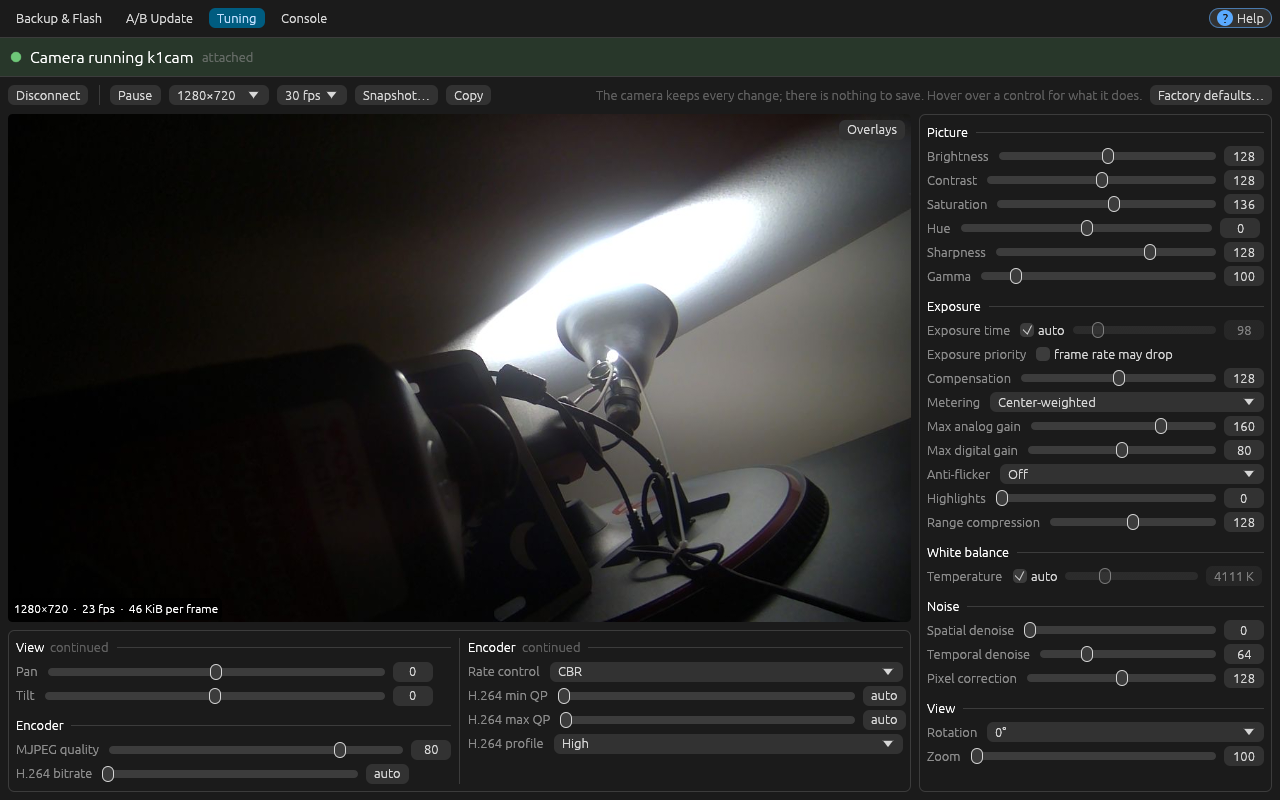
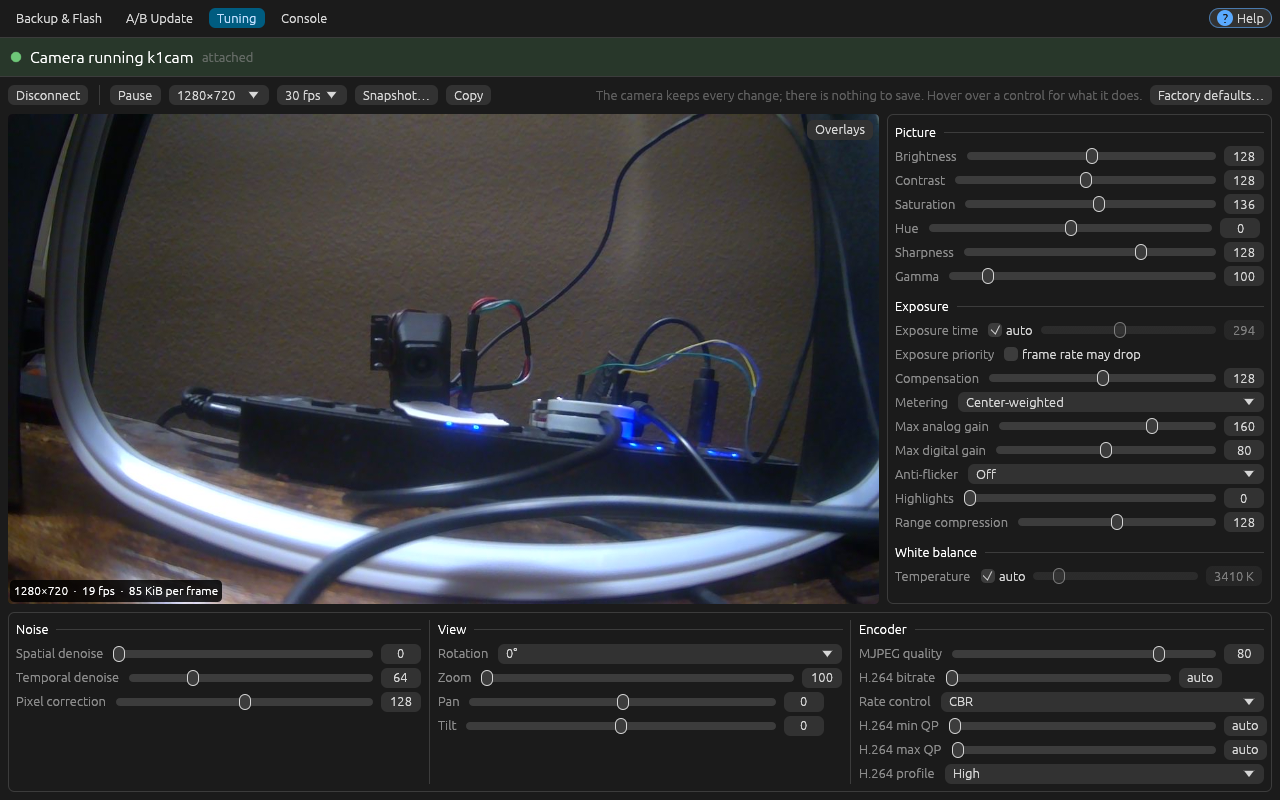
tuning: wrap the controls around the preview in reading order

diff --git a/src/tuning.rs b/src/tuning.rs
@@ -547,8 +547,9 @@ fn flow(lines: &[Line], cols: &[egui::Rect], line: f32, run_on: bool) -> Option<
 
 /// The preview at the top left, as large as it can be with every control in
 /// view, and the controls flowing past it the way a page wraps text around a
-/// picture: down the columns of a box beside it, then of a box below it. Only
-/// when they don't fit beside a preview `SMALLEST` wide does the tab scroll.
+/// picture: down the columns of a box beside it, as tall as the picture, then
+/// of a box across the room below it, so that they read in order. Only when
+/// they don't fit beside a preview `SMALLEST` wide does the tab scroll.
 fn arrange(room: egui::Vec2, aspect: f32, lines: &[Line], line: f32) -> Arrangement {
     let (w, h, aspect) = (room.x.max(1.0), room.y.max(1.0), aspect.max(0.1));
     let largest = w.min(h * aspect).floor().max(1.0);
@@ -566,22 +567,22 @@ fn arrange(room: egui::Vec2, aspect: f32, lines: &[Line], line: f32) -> Arrangem
 /// The arrangement with a preview `pw` by `ph`, if the lines fit (or anyway,
 /// with `run_on`).
 fn place(w: f32, h: f32, pw: f32, ph: f32, lines: &[Line], line: f32, run_on: bool) -> Option<Arrangement> {
-    let side = fit(w - pw - GAP);
-    let beside = egui::Rect::from_min_max(egui::pos2(pw + GAP, 0.0), egui::pos2(w, h));
-    let below = egui::Rect::from_min_max(egui::pos2(0.0, ph + GAP), egui::pos2(if side == 0 { w } else { pw }, h));
-    let under = if side == 0 { fit(w).max(1) } else { fit(pw) };
-    let mut cols = columns(beside, side);
+    // Beside the picture only as far down as it goes, so that nothing beside it
+    // comes after what starts below it.
+    let beside = egui::Rect::from_min_max(egui::pos2(pw + GAP, 0.0), egui::pos2(w, ph.min(h)));
+    let below = egui::Rect::from_min_max(egui::pos2(0.0, ph + GAP), egui::pos2(w, h));
+    let mut cols = columns(beside, fit(beside.width()));
     let split = cols.len();
-    cols.extend(columns(below, under));
+    cols.extend(columns(below, fit(w).max(1)));
     let placed = flow(lines, &cols, line, run_on)?;
-    // The boxes in use, as tall as the room or the lines run on, and as wide as
-    // their columns in use.
+    // The boxes in use, as wide as their columns in use; the one below as tall
+    // as the room or the lines run on.
     let end = placed.iter().map(|(_, p)| p.rect.bottom() + PAD).fold(h, f32::max);
     let used = |c: usize| placed.iter().any(|(at, _)| *at == c);
     let (mut boxes, mut rules) = (Vec::new(), Vec::new());
-    for (b, range) in [(beside, 0..split), (below, split..cols.len())] {
+    for (b, range, bottom) in [(beside, 0..split, beside.bottom()), (below, split..cols.len(), end)] {
         let Some(last) = range.clone().rev().find(|&c| used(c)) else { continue };
-        let b = egui::Rect::from_min_max(b.min, egui::pos2(cols[last].right() + PAD, end));
+        let b = egui::Rect::from_min_max(b.min, egui::pos2(cols[last].right() + PAD, bottom));
         for c in range.skip(1).filter(|c| used(*c)) {
             let x = cols[c].left() - RULE / 2.0;
             rules.push([egui::pos2(x, b.top() + PAD), egui::pos2(x, b.bottom() - PAD)]);
@@ -1426,6 +1427,11 @@ mod tests {
         assert!(p.min == egui::Pos2::ZERO && (p.width() / p.height() - aspect).abs() < 1e-3, "{p:?}");
         let order: Vec<usize> = a.lines.iter().filter_map(|l| l.line).collect();
         assert_eq!(order, (0..lines.len()).collect::<Vec<_>>());
+        // They read in order: a line left of the one before it is below it.
+        for w in a.lines.windows(2) {
+            let (r, n) = (w[0].rect, w[1].rect);
+            assert!(n.left() >= r.left() || n.top() >= r.bottom(), "{n:?} after {r:?} in {room:?}");
+        }
         for (k, l) in a.lines.iter().enumerate() {
             let r = l.rect;
             assert!(r.left() >= 0.0 && r.right() <= room.x + 1e-3, "{r:?} outside {room:?}");
@@ -1483,8 +1489,8 @@ mod tests {
 
     #[test]
     fn the_controls_wrap_around_the_preview_and_fit() {
-        // The tab in the default 1100x720 window, and in a 1145x842 one.
-        for room in [egui::vec2(1084.0, 648.0), egui::vec2(1129.0, 760.0)] {
+        // The tab in the default 1280x800 window, and in 1100x720 and 1145x842 ones.
+        for room in [egui::vec2(1264.0, 682.0), egui::vec2(1084.0, 648.0), egui::vec2(1129.0, 760.0)] {
             let lines = real();
             let a = arrange(room, WIDE, &lines, LINE);
             sound(room, WIDE, &lines, &a);
